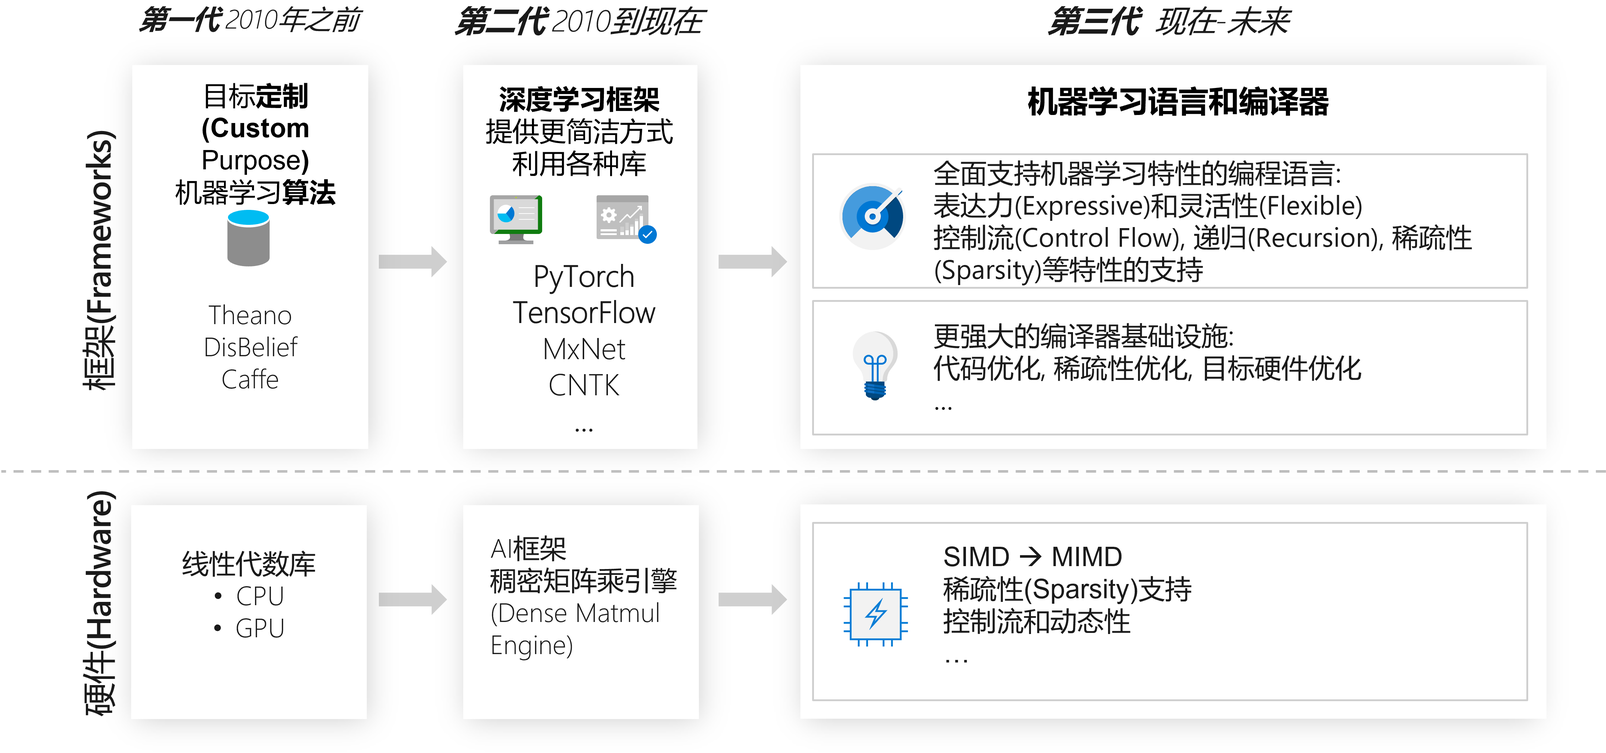
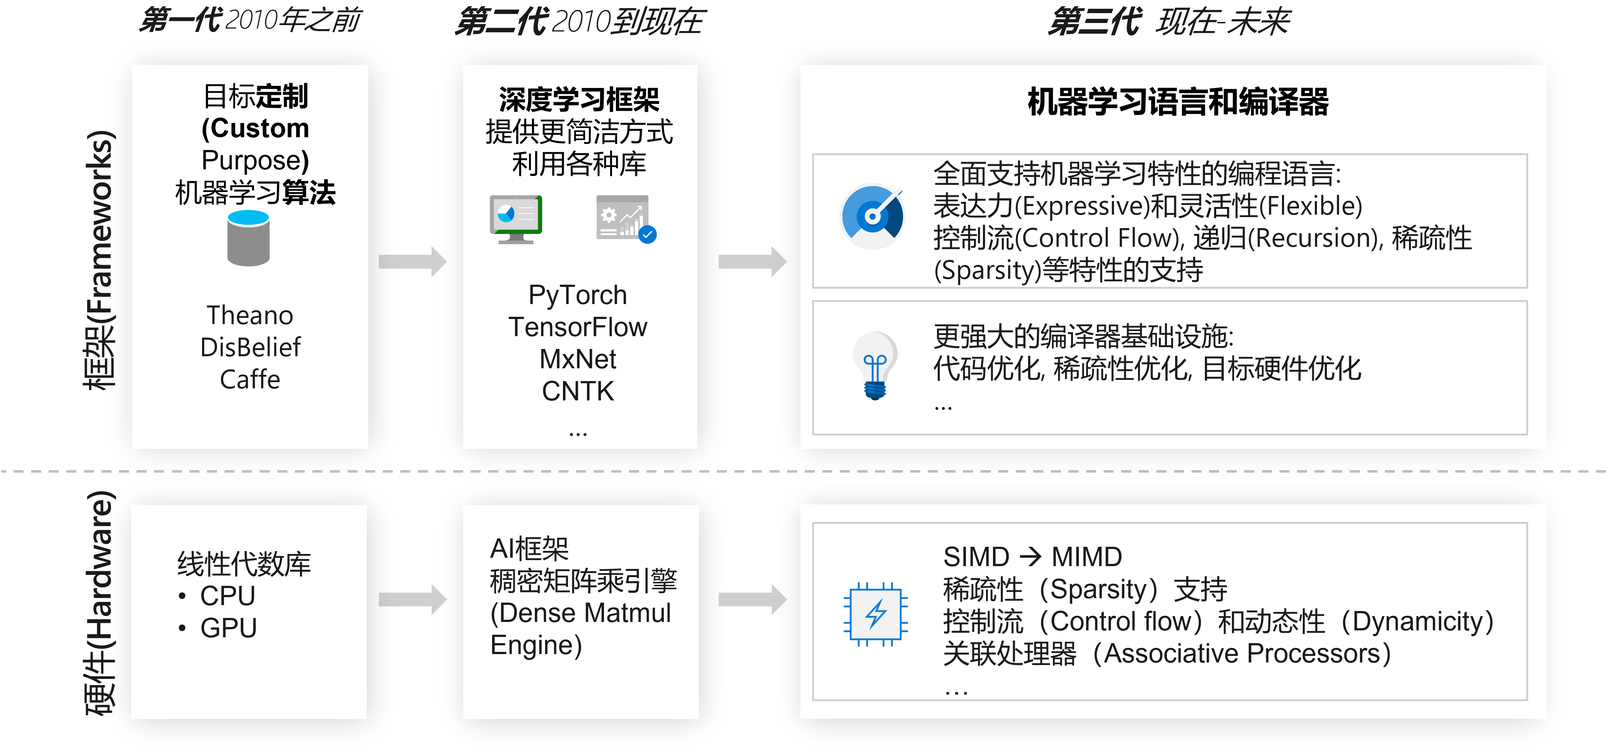
Update chapter 1, 7 and 8 (#110)
* add a bit for principle

* add more about compute translation

* add chip selection part

* refine a bit for figures

* refine a figure

* fix typo

* add abit

* add more compare

* refine a bit

* add more compare

* use more clear im2col figure

* add more for classic

* add a bit classic

* refine a bit

* refine a bit

* add more a bit cgroups

* refine a bit for fair share

* refine a bit

* update storage

* refine a bit

diff --git a/Textbook/第1章-人工智能系统概述/1.5-影响深度学习系统设计的理论，原则与假设.md b/Textbook/第1章-人工智能系统概述/1.5-影响深度学习系统设计的理论，原则与假设.md
@@ -147,7 +147,7 @@ ret; // 返回
         GPU Shutdown Temp                 : 95 C
         GPU Slowdown Temp                 : 92 C
   ```
-  在后面会看到越来越多的大模型采用分布式训练的方式打破单卡算力瓶颈，推理系统在移动端会被功耗所约束需要精简模型。
+  一般我们会看到软硬件通过以下方式应对挑战：（1）硬件层面：例如，NVIDIA不仅推出GPU，还推出[DGX系统](https://www.nvidia.com/en-us/data-center/dgx-systems/)和[DGX Pod](https://www.nvidia.com/en-us/data-center/dgx-pod/)，互联更多的GPU，打破单卡瓶颈。（2）软件层面：2.1 在后面会看到越来越多的大模型采用多卡或分布式训练的方式打破单卡算力瓶颈 2.2 推理系统在移动端会被功耗所约束需要通过压缩量化等手段精简模型。
 - 暗硅 (Dark Silicon)与异构硬件（Heterogeneous Hardware）的趋势：2010年，ARM 的 CTO Mike Muller 将在 EE Times 的Designing with ARM 虚拟会议上发表[暗硅警告（Warns of Dark Silicon）](https://www.eetimes.com/arm-cto-warns-of-dark-silicon/)主题演讲。根据 Mike 的说法，尽管工艺缩小到 11 nm，但固定的功率预算（Fixed Power Budgets ）可能很快就无法利用芯片（Chip）上的所有可用晶体管（Transistors）。如果没有新的创新，设计人员可能会发现自己处于“暗硅 (Dark Silicon)”时代，能够制造出他们无法负担得起的高密度设备。Olivier Temam在2010年ISCA中提到，[一种结果，向异构系统的可能演变：程序分解为“算法序列”，每个算法在任何给定时间映射到一个或几个加速器：晶体管的一小部分在任何给定时间使用（规避“暗硅”问题）](https://pages.saclay.inria.fr/olivier.temam/homepage/ISCA2010web.pdf)。 例如图1-5-1. 现在的深度学习程序虽然都是在一套Python脚本书写，但是当翻译到底层执行，具体的会拆分到异构设备进行指令执行，的数据加载与作业调度控制在CPU完成，模型训练在GPU完成，也有公司将推理未来部署于FPGA进行加速。异构计算的趋势会造成后面编译器章节对异构平台进行编译的需求，以及集群资源管理系统对异构硬件资源进行调度与资源分配的需求。
 当前异构计算的很多工作在数据中心异构和云化的趋势下常常会看到和下面主题相关的系统工作和设计思路：
   -  卸载（Offloading）：对不断增长的计算CPU越来越难以负担，卸载成为一种行之有效的方式。（1）一种思路是卸载控制平面或协议栈到硬件，减少CPU中断和开销（Overhead），和用户内核态数据拷贝，例如，DMA，[RDMA](https://conferences.sigcomm.org/sigcomm/2018/files/tp/sigcomm18-tp-06-rdma-and-hardware-support.pdf)，[GPUDirect Storage](https://developer.nvidia.com/blog/gpudirect-storage/)等设计思路。（2）另一种是借鉴[Exokernel](https://en.wikipedia.org/wiki/Exokernel)的思想，卸载内核态软件栈（例如，网络栈，[IO处理栈](http://www.cs.columbia.edu/~junfeng/papers/bpf-storage-hotos18.pdf)）逻辑到用户态，通过内核旁路（Kernel Bypassing）减少内核态与用户态切换与数据拷贝，例如，[Mellanox Messaging Accelerator (VMA) library](https://docs.nvidia.com/networking/display/VMAv883/Introduction+to+VMA)。（3）还有一种直接卸载密集计算：适合SIMD计算模型的负载（例如，深度学习模型的矩阵运算等）卸载到以SIMD为执行模型的GPU等加速器，适合[多指令流多数据流（Multiple Instruction Multiple Data）简称MIMD](https://en.wikipedia.org/wiki/Multiple_instruction,_multiple_data)（例如，字符串数据预处理等）负载卸载到[DPU](https://en.wikipedia.org/wiki/Data_processing_unit)等新兴加速器。除去负载的逻辑特点，如果用户的任务负载程序与指令稳定变化小（例如，一些特定场景的模型推理），也较为适合放入 FPGA 中硬件级定制加速器处理逻辑。
@@ -157,7 +157,7 @@ ret; // 返回
 <center>图1-5-2. 深度学习程序异构计算 (<a href="">图片引用</a>)</center>
 
 - [内存墙](https://en.wikipedia.org/wiki/Random-access_memory#Memory_wall)约束：
-  - [“内存墙”](https://en.wikipedia.org/wiki/Random-access_memory#Memory_wall)是芯片与芯片外的内存之间越来越大的速度差距。造成这种差距的一个重要原因是超出芯片边界的有限通信带宽，也称为带宽墙。例如，从 1986 年到 2000 年，CPU 速度以每年 55% 的速度提高，而内存速度仅提高了 10%。鉴于这些趋势，预计内存延迟将成为计算机性能的压倒性瓶颈。虽然增速比例不同，但是这种通常计算发展更快的现状其实我们在GPU的发展过程中也可以观察到，例如表1-5-1.所示，NVIDIA H100相比A100在FP32 Vector上是48TFLOPS相比19.5TFLOPS的近2.46倍提升，但是内存带宽只是2TB/s (PCIe版GPU)比1,935GB/s （PCIe版GPU）的1.06倍提升，访存落后于计算的提升速度。可以认为在人工智能领域内存墙这种情况还存在。同时我们在后面的编译优化等章节会看到很多策略是尽可能利用片上共享内存或者GPU显存，尽可能的减少数据搬运。
+  - [“内存墙”](https://en.wikipedia.org/wiki/Random-access_memory#Memory_wall)是芯片与芯片外的内存之间越来越大的速度差距。造成这种差距的一个重要原因是超出芯片边界的有限通信带宽，也称为带宽墙。例如，从 1986 年到 2000 年，CPU 速度以每年 55% 的速度提高，而内存速度仅提高了 10%。鉴于这些趋势，预计内存延迟将成为计算机性能的压倒性瓶颈。虽然增速比例不同，但是这种通常计算发展更快的现状其实我们在GPU的发展过程中也可以观察到，例如表1-5-1.所示，NVIDIA H100相比A100在FP32 Vector上是48TFLOPS相比19.5TFLOPS的近2.46倍提升，但是内存带宽只是2TB/s (PCIe版GPU)比1,935GB/s （PCIe版GPU）的1.06倍提升，访存落后于计算的提升速度。可以认为在人工智能领域内存墙这种情况还存在。一般应对内存墙有以下思路：（1）利用缓存减少数据访存搬运，同时我们在后面的编译优化等章节会看到很多策略是尽可能利用片上共享内存或者GPU显存，尽可能的减少数据搬运。（2）[关联处理（Associative Processing）的思想和关联处理器（Associative Processors）](https://ieeexplore.ieee.org/document/330035)，将计算直接卸载到数据侧，例如，[IMCA加速器设计](https://blogs.apache.org/hbase/entry/coprocessor_introduction)。除了硬件支持，软件层也可以借鉴其思想。在传统大数据系统中，Spark等尽可能搬运UDF，将计算放在数据块所在节点处理，减少搬运数据，以及Big Table和HBase的[协处理器（Coprocessor）](https://blogs.apache.org/hbase/entry/coprocessor_introduction)设计都是关联处理思想的延伸。（3）减少数据本身，例如，利用稀疏性，减少待计算需要传递的的数据量。（4）计算屏蔽数据搬运开销，例如，GPU通过更小开销的硬件线程切换设计，让需要访存的线程让出计算核，进而提升整体一批线程的计算吞吐，减少访问的开销。
 
 <style>table{margin: auto;}</style>
 |GPU 规格（Specification）|32位浮点运算量（FP32 FLOPS）|访存带宽（Memory Bandwidth）|内存尺寸（Memory Size）|最大热设计功率（Max Thermal Design Power）|发布年份|
@@ -184,8 +184,13 @@ ret; // 返回
 <center><img src="img/5/5-1-3-MemoryHierarchy.png" ch="500" /></center>
 <center>图1-5-3. 内存存储层级 (<a href="">图片引用</a>)</center>
 
-图1-5-1. 内存层次结构(Memory Hierarchy)[图片引用](https://diveintosystems.org/book/C11-MemHierarchy/mem_hierarchy.html)
+图1-5-3. 内存层次结构(Memory Hierarchy)[图片引用](https://diveintosystems.org/book/C11-MemHierarchy/mem_hierarchy.html)
 在图中我们看到传统的内存层次结构问题总结中没有覆盖GPU和AI加速器，我们可以通过PCIe总线将AI加速器与当前已有体系结构互联，让计算机利用AI加速器加速模型的训练与推理。
+
+<center><img src="img/5/5-1-13-storagevslogistics.png" ch="500" /></center>
+<center>图1-5-4. 内存存储层级 vs 物流仓储配送流程(<a href="https://www.zhitongcaijing.com/content/detail/433344.html">图片引用</a>)</center>
+
+如图1-5-4我们可以将存储和访存类别物流的仓库与配送，进而理解其中的设计与权衡。末端站点像缓存或寄存器，更小的空间，更高的租金成本，更快的送达速度。仓库就像磁盘或内存，更大的空间，更低的租金成本，更慢的送达速度。
 
 那么我们可以总结各个内存层次结构结构中的利用局部性的例子和机会：
 - GPU L1, L2缓存：
@@ -264,10 +269,15 @@ printf("%d \n", &C[m][n]);
 
 ## 1.5.4 深度学习负载的线性代数（Linear Algebra）计算与缺陷容忍（Defect Tolerance）特性
 
-**线性代数**：大部分的深度学习算子可以抽象为线性代数运算。其较少的控制流，并且大量的矩阵乘等计算让硬件可以通过单指令多数据流（SIMD）进行指令流水线精简设计，并将更多的片上资源用于计算，如图1-5-8所示。或者在更高的层次上通过多卡或分布式计算方式进行加速。这种特性的应用我们将在1.3.5中进行总结。同时我们也看到，由于矩阵计算早在几十年前在科学计算与高性能计算（HPC）领域有过大量的成熟研究，在深度学习系统领域也有很多工作会借鉴并优化传统科学计算与高性能计算领域的系统设计与开源组件。
+**线性代数**：大部分的深度学习算子可以抽象为线性代数运算，如通用矩阵乘（GEMM）。如图1-5-8所示，深度学习模型由很多的算子像积木一样组合而成，而每个算子又可以转换为对应的矩阵运算或非线性函数运算，而之后可以利用加速器（Accelerator）进行加速执行。例如，卷积可以通过im2col转换为通用矩阵乘。而矩阵乘在编译器中可以得到大量的优化，同时无论是GPU还是ASIC都可以为其设计专用加速器件。例如，NVIDIA GPU通过[单指令多线程（SIMT）](https://en.wikipedia.org/wiki/Single_instruction,_multiple_threads)进行矩阵运算加速，单指令多线程 (SIMT) 是一种用于并行计算的执行模型，其中单指令多数据 (SIMD) 与多线程相结合。Google TPU通过经典的[脉动阵列（Systolic Array）](https://en.wikipedia.org/wiki/Systolic_array)定制矩阵乘加速单元（Matrix Multiply Unit）。
+
+<center><img src="img/5/5-1-12-modeltomatrix.png" ch="500" width="1000" height="500"  /></center>
+<center>图1-5-8. 深度学习模型转换为底层矩阵运算，并在ASIC加速器为其定制的专用器件上进行加速 (<a href="">图片引用</a>)</center>
+
+由于矩阵运算含有较少的的控制流，且计算之间依赖少，适合并行计算。大量的矩阵乘等计算让硬件可以通过单指令多数据流（SIMD）进行指令流水线精简设计，并将更多的片上资源用于计算，如图1-5-9所示。或者在更高的层次上通过多卡或分布式计算方式进行加速。这种特性的应用我们将在1.3.5中进行总结。同时我们也看到，由于矩阵计算早在几十年前在科学计算与高性能计算（HPC）领域有过大量的成熟研究，在深度学习系统领域也有很多工作会借鉴并优化传统科学计算与高性能计算领域的系统设计与开源组件。
 
 <center><img src="img/5/5-1-4-sisd-simd.png" ch="500" width="600" height="300"  /></center>
-<center>图1-5-8. SISD对比SIMD (<a href="">图片引用</a>)</center>
+<center>图1-5-9. SISD对比SIMD (<a href="">图片引用</a>)</center>
 
 如下图所示，我们通过A,B进行通用矩阵乘计算产生矩阵C（通用矩阵乘常常用于全连接算子和卷积被im2col转化后的GEMM卷积算子中的运算）。但是我们观察到，下面都是标量的操作，如果每个线程都启动进行标量运算，会每个线程都有一个指令流和数据流。
 
@@ -366,10 +376,10 @@ else
 S_{latency}(s) = \frac{1}{(1-p) + \frac{p}{s}}
 $：其中$S_{latency}$是整个任务执行的理论加速；$s$是从改进的系统资源中受益的部分任务的加速；$p$是受益于改进资源的部分最初占用的执行时间的比例。我们可以看到并行加速受限于串行部分，之后的深度学习中，并行过程中的阶段与阶段间的同步点，聚合运算等都是需要一定串行并无法并行的部分。
 
-如图1-5-5.所示，根据阿姆达尔定律，作为执行程序的处理器数量的函数（也可以推广到分布式或者多设备场景进行理论分析），程序执行延迟的理论加速（y轴）。程序的加速受到程序的串行部分的限制。例如，如果 95% 的程序可以并行化（Parallel Portion = 95%），那么理论上使用并行计算的最大加速将是 20 倍（图中绿色曲线所示）。
+如图1-5-12.所示，根据阿姆达尔定律，作为执行程序的处理器数量的函数（也可以推广到分布式或者多设备场景进行理论分析），程序执行延迟的理论加速（y轴）。程序的加速受到程序的串行部分的限制。例如，如果 95% 的程序可以并行化（Parallel Portion = 95%），那么理论上使用并行计算的最大加速将是 20 倍（图中绿色曲线所示）。
 
 <center><img src="img/5/5-1-6-AmdahlsLaw.png" ch="500" width="600" height="400"  /></center>
-<center>图1-5-11. 阿姆达尔定律 (<a href="https://en.wikipedia.org/wiki/Amdahl%27s_law">图片引用</a>)</center>
+<center>图1-5-12. 阿姆达尔定律 (<a href="https://en.wikipedia.org/wiki/Amdahl%27s_law">图片引用</a>)</center>
 
 通过以上我们可以看到在深度学习系统中，经典的优化方法和理论依然适用。
 
@@ -384,7 +394,7 @@ $：其中$S_{latency}$是整个任务执行的理论加速；$s$是从改进的
   - 存储：分布式文件系统（例如，[HDFS](https://hadoop.apache.org/docs/r1.2.1/hdfs_design.html)，[Alluxio](https://www.alluxio.io/)，[Azure Blob](https://azure.microsoft.com/en-us/services/storage/blobs/)等）副本机制。
 
 <center><img src="img/5/5-1-5-duplication.png" ch="500" width="600" height="200"  /></center>
-<center>图1-5-12. 副本机制 (<a href="">图片引用</a>)</center>
+<center>图1-5-13. 副本机制 (<a href="">图片引用</a>)</center>
 
 由于冗余（Redundancy）副本会产生一致性（Consistency）的问题，工程师可以参考经典的分布式系统保持副本一致性的共识（Consensus）协议（例如，[Paxos](https://en.wikipedia.org/wiki/Paxos_(computer_science))，[Raft](https://en.wikipedia.org/wiki/Raft_(algorithm))等）保证新设计的副本系统数据一致。
 

diff --git a/Textbook/第7章-异构计算集群调度与资源管理系统/7.5-存储.md b/Textbook/第7章-异构计算集群调度与资源管理系统/7.5-存储.md
@@ -28,8 +28,7 @@
 <center> <img src="./img/5/7-5-5-fuse.png" ch="500" width="500" height="500" /></center>
 <center>图7-5-2. 用户空间文件系统（Filesystem in Userspace）访问云端存储（例如，Azure Blob）(<a href="https://en.wikipedia.org/wiki/Filesystem_in_Userspace">图片来源</a>)</center>
 
-上图显示FUSE工作原理的流程图：来自用户空间的列出文件的请求 (ls -l /tmp/fuse) 被内核通过虚拟文件系统([Virtual File System](https://en.wikipedia.org/wiki/Virtual_file_system)
-)简称VFS重定向到FUSE。FUSE 然后执行注册的处理程序（./hello）并将请求传递给它（ls -l /tmp/fuse）。通过REST API或其他接口调用读写云端存储(例如Blob Fuse)。处理程序将响应返回给 FUSE，然后将其重定向到最初发出请求的用户空间程序。例如，很多分布式文件系统都提供了FUSE功能方便用户使用，我们以Azure提供的[BlobFuse](https://github.com/Azure/azure-storage-fuse)为例：
+上图显示FUSE工作原理的流程图：来自用户空间的列出文件的请求 (ls -l /tmp/fuse) 被内核通过虚拟文件系统([Virtual File System](https://en.wikipedia.org/wiki/Virtual_file_system))简称VFS重定向到FUSE。FUSE 然后执行注册的处理程序（./hello）并将请求传递给它（ls -l /tmp/fuse）。通过REST API或其他接口调用读写云端存储(例如Blob Fuse)。处理程序将响应返回给 FUSE，然后将其重定向到最初发出请求的用户空间程序。例如，很多分布式文件系统都提供了FUSE功能方便用户使用，我们以Azure提供的[BlobFuse](https://github.com/Azure/azure-storage-fuse)为例：
 
 用户或平台系统只需要挂载文件系统即可。例如，参考官方实例的步骤: 
 
@@ -156,13 +155,38 @@ P * (1 (seek) * seconds_per_seek + (1024 / 32) * per_sample_size / pcie_bandwidt
 ```
 以上的特点造成看似对存储优化机会不像传统的数据库或者大数据系统机会多，但是如果不设计好面向深度学习的存储，也会造成和产生系统瓶颈。
 
-所以我们可以朝着以下几个方向，并利用已有成熟的文件系统进行设计。
+所以可以朝着以下几个方向，并利用已有成熟的文件系统设计思想，与数据加载器（Data Loader）和底层硬件协同设计（Co-design）出面向深度学习的高效率块存储I/O技术栈，一站式加速深度学习作业的数据加载：
 
-- 局部性：已知访问顺序的情况下的预取(Prefetch)策略的支持。
-- 流水线：和计算形成流水线协同配合，减少I/O成为瓶颈的几率。框架原生支持跨多种数据源并能异步与并行数据加载的高性能数据加载器模块。
-- 缓存：利用数据中心主存不断增长的趋势，在主存做好数据缓存和备份，例如，业界有公司利用Alluxio提供缓存功能。
-- 文件格式的设计：减少小文件读写与序列化开销，例如，[TFRecord](https://www.tensorflow.org/tutorials/load_data/tfrecord)等针对深度学习负载设计的文件格式。
+<center> <img src="./img/5/7-5-7-overviewofio.png" ch="500" width="1300" height="500" /></center>
+<center>图7-5-5. 深度学习I/O时序图与优化策略总览(<a href="">图片来源</a>)</center>
 
+- 高效文件格式（Layout）的设计：一般文件格式有几点设计思路（1）合并为大文件，减少文件数量，减少文件打开开销。（2）减少随机读写转为顺序读写。（3）高效的格式和序列化库，降低序列化与反序列化开销。例如，[TFRecord](https://www.tensorflow.org/tutorials/load_data/tfrecord)等针对深度学习负载设计的文件格式，将原来多张图片（每个都是一个文件），序列化为一个二进制文件。
+- 并发执行（Concurrent Computing）和并行（Parallel）加载：和计算形成流水线协同配合，减少I/O成为瓶颈的几率，同时利用多核进行并行加载。如图所示，未经优化的数据加载流程，一个训练epoch含有三个阶段：文件打开（Open），迭代每个批次读取（Read）数据和训练（Train）。框架原生支持跨多种数据源并能异步与并行数据加载的高性能数据加载器模块，例如，并发执行的[TensorFlow Data API](https://www.tensorflow.org/guide/data_performance)。并行执行的PyTorch Dataloader。
+
+<center> <img src="./img/5/7-5-8-prefetched.png" ch="500" width="1300" height="600" /></center>
+<center>图7-5-5. 预取优化的数据读取时序图(<a href="https://www.tensorflow.org/guide/data_performance">图片来源</a>)</center>
+
+- 统一文件系统接口（Unified File System API）：对用户透明，统一管理多级，多数据源异构存储。
+  - [NVIDIA AIStore](https://github.com/NVIDIA/aistore)：AIStore（简称AIS）是一个为人工智能负载设计的轻量级存储堆栈。 
+减少内核态切换与CPU中断，减少内核与用户态内存拷贝。可以部署为远程存储的基于 LRU 的快速缓存； 可以按需填充和/或通过预取和下载 API，适用于集群内大量用户可能会重复使用数据集。自动重新平衡集群（通过类Map Reduce扩展），在集群成员、驱动器故障和附件、存储桶重命名发生任何变化时自动触发，因为用户不断产生新数据与模型，删除旧模型，造成文件系统容易变得不平衡。支持关联处理（Associative Processing），用户的ETL可以就近数据处理，数据中心流行计算存储分离，ETL通过关联处理可以减少I/O数据搬运。工程上，兼容支持按需挂载多种云存储，K8s部署，数据保护，纠删码，高可用等分布式文件系统功能。
+  
+<center> <img src="./img/5/7-5-6-aistore.png" ch="500" width="600" height="300" /></center>
+<center>图7-5-5. AIStore支持挂载多种存储，统一管理(<a href="https://github.com/NVIDIA/aistore">图片来源</a>)</center>
+
+- 局部性（Locality）：（1）已知访问顺序（时间局部性）的情况下的预取(Prefetch)策略的支持。例如，虽然深度学习数据读取为随机读取样本，但是一定程度上如果随机数生成如果不依赖当前Epoch，可以考虑提前生成随机序列并由守护线程进行数据提前加载与准备。（2）利用数据中心主存不断增长的趋势，在主存或挂载高速二级存储（NVM等）做好数据缓存和备份，并由分布式缓存文件系统纳入统一管理。例如，业界有公司利用Alluxio提供缓存功能。
+- 内核旁路（Kernel Bypassing）：
+  - [GPUDirect存储器](https://developer.nvidia.com/zh-cn/blog/gpudirect-storage/)：底层利用RMDA直接访问，RDMA支持零拷贝，内核旁路（用户态I/O），CPU旁路大幅提高I/O效率，直接访问远端高速存储（例如，NVMe），在网络和块存储I/O上协同优化。其避免了通过主存中的缓冲区的额外拷贝，并使 NIC 或存储器附近的直接内存访问（DMA）引擎能够在直接路径上将数据移入或移出 GPU 内存所有这些都不会给 CPU（不干扰DMA）或 GPU （不干扰GPU DMA）带来负担。
+  
+<center> <img src="./img/5/7-5-9-gpudirect.png" width="1000" height="600" /></center>
+<center>图7-5-5. GPUDirect 存储器(<a href="https://developer.nvidia.com/zh-cn/blog/gpudirect-storage/">图片来源</a>)</center>
+
+- 卸载（Offloading）：可以将一定的数据压缩解压缩，反序列化，甚至一定的数据预处理等计算卸载到协处理器。
+  - ETL卸载到 GPU:（[DALI](https://docs.nvidia.com/deeplearning/dali/user-guide/docs/)） 提供了一组高度优化的构建块，用于加载和处理图像、视频和音频数据。DALI 通过将数据预处理卸载到 GPU 来解决 CPU 瓶颈问题。此外，DALI 利用预取、并行执行和批处理等功能为用户透明地加速处理数据。NVDIA还通过[NVTabular加速推荐引擎ETL](https://resources.nvidia.com/en-us-merlin/accelerating-recsys-etl-blog?lx=97GH0Q)。
+  - DMA卸载：例如，GPUDirect卸载DMA复制引擎到NIC或NVMe内的DMA处理，减轻CPU，GPU DMA负担。
+- 数据与模型隐私保护：本章暂不介绍数据和模型的隐私保护，读者可以参考第13章。
+
+其他例如权限管理等和传统文件系统区别不太，读者可以参考传统文件系统设计进行借鉴。
+  
 ## 小结与讨论
 
 本章我们主要介绍异构计算集群管理系统的中的存储，计算，存储和网络是基础架构中的核心，我们在深度学习系统中往往开始关注计算较多，但随着时间的推移会意识到存储的重要性和新的问题。

diff --git a/Textbook/第8章-深度学习推理系统/8.2-模型推理的离线优化.md b/Textbook/第8章-深度学习推理系统/8.2-模型推理的离线优化.md
@@ -15,7 +15,12 @@
   - [小结与讨论](#小结与讨论)
   - [参考文献](#参考文献)
 
-推理系统类似传统的Web服务，需要响应用户请求，并保证一定的服务等级协议(例如，响应时间低于100ms)，进而需要通过一定的策略和优化，保持一定的低延迟(Low Latency)，本小节将围绕部署过程中涉及到的延迟问题和相应的优化进行展开。
+推理系统类似传统的Web服务，需要响应用户请求，并保证一定的服务等级协议(例如，响应时间低于100ms)，进而需要通过一定的策略和优化，保持一定的低延迟(Low Latency)，本小节将围绕部署过程中涉及到的延迟问题和相应的优化进行展开。 
+总体来说，本章节的优化都在朝着下面的思路设计：
+（1）更小的模型：更小的模型意味着更少的浮点运算量和访存开销。例如，低精度推理，模型压缩等。
+（2）更小的访存开销：层间与张量融合，目标后端自动调优等。
+（3）更大的并行度：目标后端自动调优等。
+同时本章的优化属于 ***离线优化*** ，也就是属于部署推理模型之前做的优化，对这段优化处理本身的开销没有严格约束。
 
 ## 8.2.1 通过程序理解推理优化动机
 
@@ -157,6 +162,14 @@ for j in range(len(B[0])):
 
 代表性的开源内核融合系统还有很多，例如，微软开源的[NNFusion](https://github.com/microsoft/nnfusion)。
 
+***经典回顾***
+
+- [内联函数（Inline Function）](https://en.wikipedia.org/wiki/Inline_functiong)：C/C++编程语言中，内联函数用作编译器指令，建议（但不要求）编译器通过执行内联扩展来替换内联函数的主体，即通过在每个函数调用的地址处插入函数代码，从而节省函数的调用开销。 
+
+- [循环融合（Loop Fusion）](https://en.wikipedia.org/wiki/Loop_fission_and_fusion)：循环融合是一种编译器优化和循环转换，它用一个循环替换多个循环。循环融合并不总能提高运行速度。在某些架构上，两个循环实际上可能比一个循环执行得更好，例如，因为每个循环内的数据局部性增加。 循环融合的主要好处之一是它可以避免临时内存分配。
+
+- 大数据系统中：Spark中将两个洗牌（Shuffle）阶段之间的用户自定义函数（UDF）自动融合（Fusion）为一个[阶段（Stage）](https://data-flair.training/blogs/spark-stage/)，并根据数据分区（Partition）转换为具体任务（Task）执行，减少UDF之间的数据访存开销。
+
 ## 8.2.4 目标后端自动调优
 
 由于深度学习模型中的层的计算逻辑可以转为矩阵运算，而矩阵计算又可以通过循环进行实现。对于循环的实现，由于在不同的推理CPU和硬件设备中，有不同的缓存和内存大小以及访存带宽，进而如何针对不同的设备进行循环的并行化和考虑数据的局部性降低访存开销，可以抽象为一个搜索空间巨大的优化问题。目前有很多代表性的工作在围绕这个问题展开，通过基于专家经验的规则，构建代价模型，抽象为优化问题或者通过机器学习自动化学习和预测是常用的方式。由于在编译优化章节对此有较为详细的介绍，本章不再展开相应的内容，读者可以参考编译优化章节内容理解。
@@ -172,6 +185,10 @@ for j in range(len(B[0])):
 2. 基于顺序构建的搜索（Sequential Construction Based Search）：如图b所示，这种方法通过分解程序结构来细化搜索空间转化为固定的决策序列。 然后编译器
 使用诸如束搜索（Beam Search）之类的算法来搜索好的决策（例如，[Halide](https://dl.acm.org/doi/10.1145/3150211) 自动调度器采用这种方式）。 在这种方法中，编译器通过逐步展开计算图中的所有节点顺序构造一个张量程序（Tensor Program）。
 3. 分层方法（Hierarchical Approach）：如图c所示，[Ansor](https://arxiv.org/pdf/2006.06762.pdf)由一个分层的搜索空间支持，该空间解耦高级结构和低级细节。 Ansor构造自动搜索计算图的空间，无需手动开发模板。 然后从空间中采样完整的程序并执行对完整程序进行微调，避免不准确的预估不完整程序。
+
+***经典回顾***
+
+程序分析（Program Analysis）与编译器（Compiler）领域在过去的几十年中，对循环做了大量的研究与优化，读者可以参考[循环优化（Loop Optimization）](https://en.wikipedia.org/wiki/Loop_optimization)了解。例如：循环分块（Tiling），循环展开（Unrolling），循环交换(Interchange)，循环分解（Fission），循环融合（Fusion）等。而面对如此大的优化空间，当前的工作更多的入手点是从如何通过更高效算法搜索出近似或超过专家手工优化的效果，以及通过编译器工程上适配更多的设备。
 
 ## 8.2.5 低精度推理与精度校准
 

diff --git a/Textbook/第7章-异构计算集群调度与资源管理系统/7.3-调度.md b/Textbook/第7章-异构计算集群调度与资源管理系统/7.3-调度.md
@@ -154,6 +154,10 @@ $$
 <center> <img src="./img/3/7-3-5-capascheduling.png" ch="500" width="400" height="300" /></center>
 <center>图7-3-5. 容量调度</center>
 
+***经典回顾***
+
+操作系统[公平共享调度（Fair-share scheduling）](https://en.wikipedia.org/wiki/Fair-share_scheduling)是一种用于计算机操作系统的调度算法，其中 CPU 使用率在系统用户或组之间平均分配（或演变为类似容量调度，组之间按比例分配配额），而不是在进程之间平均分配资源。在逻辑上实现公平共享调度策略的一种常见方法是在每个抽象级别（进程、用户、组等）递归应用轮询调度（Round- Robin）策略，例如，两个公平分配的组，组内用户再根据轮训或其他调度算法进行调度。所以我们看到有的时候调度算法具有一定的正交性，可以嵌套使用，关键是在不同抽象级别上应用不同的策略。
+
 ## 7.3.5 虚拟集群(Virtual Cluster)机制
 
 在这些集群内，一般组和用户所看到的的资源并没有绑定到具体的物理机器，而是在调度后决定作业启动的物理机器。这背后是通过虚拟集群 (Virtual Cluster) 映射所实现的。而虚拟集群和我们之前介绍的cgroups的目的和设计较为类似。我们会看到很多集群产生的问题，在传统的操作系统中都能找到类似的设计问题与原则。
@@ -171,6 +175,11 @@ $$
 
 <center> <img src="./img/3/7-3-7-vc-define.png" ch="600" width="700" height="600" /></center>
 <center>图7-3-6. 虚拟集群资源分配</center>
+
+***经典回顾***
+
+虚拟集群的设计思想类似传统操作系统中的控制组的思路，约束资源但是解耦和物理资源的绑定。
+操作系统[控制组（Cgroups）](https://man7.org/linux/man-pages/man7/cgroups.7.html)是Linux内核的一个功能，用来限制、控制与分离一个行程群组的资源（如CPU、内存、磁盘输入输出等），让不同组织，用户的不同进程在操作系统中有相应的资源约束，但是不于具体硬件资源绑定，而是由运行时调度分配。
 
 ## 7.3.6 抢占式调度(Preemptive Scheduling)
 
@@ -191,6 +200,10 @@ $$
 
 抢占式调度对深度学习作业的挑战：在深度学习作业下，被抢占的作业当前只能失败，无法像传统操作系统进行上下文切换。未来可以设计更好的深度学习检查点和恢复技术进行减少抢占后作业失效造成之前作业的训练资源无效使用的问题。
 
+***经典回顾***
+
+- [操作系统强占调度](https://en.wikipedia.org/wiki/Preemption_(computing))：在计算中，抢占（Preemption）是暂时中断正在执行的任务的行为，目的是在以后恢复它。这个中断（Interrupt）是由外部调度器完成的，没有任务的参与。这种抢占式调度器通常运行在最高特权的保护环中。处理器当前执行任务的这种变化称为上下文切换（Context Switching），读者思考深度学习作业强占是否能支持上下文切换？如今，几乎所有操作系统都支持[抢占式多任务处理](Preemptive Multitasking)，例如Windows、macOS、Linux等。最初开发多任务处理技术是为了允许多个用户共享一台机器，也就是我们说的多租，但很快就发现，无论用户数量如何，多任务处理都非常有用。多任务处理使单个用户可以同时运行多个应用程序，或者在保留对计算机的控制权的同时运行"后台"进程。
+  
 ## 7.3.7 深度学习调度算法实验与模拟研究
 
 此开源数据集[philly-traces](https://github.com/msr-fiddle/philly-traces) 包含 Microsoft 内部 Philly集群上第一方 (First-Party) DNN 训练工作负载的代表性子集。 数据是 ATC’19 中“Analysis of large-scale multi-tenant GPU clusters for DNN training workloads”中描述的工作负载的一个脱敏数据子集。 这项工作是作为 Microsoft Research 的 Project Fiddle 的一部分完成的。

diff --git a/Textbook/第1章-人工智能系统概述/1.4-深度学习样例背后的系统问题.md b/Textbook/第1章-人工智能系统概述/1.4-深度学习样例背后的系统问题.md
@@ -160,10 +160,10 @@ for n in range(batch_size):
 在这其中有很多有趣的问题问题读者可以思考与预估：
 - 从算法来说，当前7层循环是否能转换为更加简单的矩阵计算(例如，[cuDNN](https://docs.nvidia.com/deeplearning/cudnn/)库中的卷积就提供了[多种实现算法](https://docs.nvidia.com/deeplearning/cudnn/api/index.html#cudnnConvolutionForward))。这些算法被封装在库中，有些框架会在运行时动态调优选择不同算法策略，读者可以参考第3章进行更多的了解。
 
-为了利用张量核心的矩阵乘法算子，先进的深度学习加速库，例如cuDNN，通常通过应用[im2col](https://hal.inria.fr/inria-00112631/document)函数将卷积转换为通用矩阵乘法（General Matrix Multiplication）缩写[GEMM](https://en.wikipedia.org/wiki/GEMM)。cuDNN也支持利用其他算法实现卷积，例如,FFT, WINOGRAD等。通用矩阵乘是自然语言处理中的主要的计算原语，同时卷积也可以转换为通用矩阵乘，同时底层GPU和其他专有人工智能芯片也针对矩阵乘作为底层支持（例如张量核（[Tensor Core](https://www.nvidia.com/en-us/data-center/tensor-cores/)）），这样的转换就可以让算子利用底层硬件和软件的优化。
+为了利用张量核心的矩阵乘法算子，先进的深度学习加速库，例如cuDNN，通常通过应用[im2col](https://hal.inria.fr/inria-00112631/document)函数将卷积转换为通用矩阵乘法（General Matrix Multiplication）缩写[GEMM](https://en.wikipedia.org/wiki/GEMM)，如图1-4-4.所示。cuDNN也支持利用其他算法实现卷积，例如,FFT, WINOGRAD等。通用矩阵乘是计算机视觉和自然语言处理模型中的主要的计算原语（例如，卷积，全连接，平均池化，注意力等算子均可以转换为GEMM），同时底层GPU和其他专有人工智能芯片也针对矩阵乘作为底层支持（例如张量核（[Tensor Core](https://www.nvidia.com/en-us/data-center/tensor-cores/)），脉动阵列等），这样的转换就可以让算子利用底层硬件和软件的优化。
 
-<center> <img src="./img/4/1-4-4-imtocol.png" ch="500" width="500" height="160" /></center>
-<center>图1-4-4. 卷积通im2col转换为通用矩阵乘(<a href="https://arxiv.org/pdf/2105.09564.pdf">图片引用</a>)</center>
+<center> <img src="./img/4/1-4-4-imtocol.png" ch="500" width="700" height="400" /></center>
+<center>图1-4-4. 卷积通im2col转换为通用矩阵乘（图中我们使用一个卷积核和一个输入图片通道为例简要说明）(<a href="https://arxiv.org/pdf/2005.13076.pdf">图片引用</a>)</center>
 
 - 其中参与计算的输入，权重和输出张量能否完全放入GPU缓存(L1，L2)？如果不能放入则需要通过块(Tile)优化进行切片，这些内容将在第5章着重介绍。
 - 循环执行的主要计算语句是否有局部性可以利用？空间局部性（缓存线内相邻的空间是否会被连续访问）以及时间局部性（同一块内存多久后还会被继续访问），这样我们可以通过预估后，尽可能的通过编译调度循环执行，这些内容将在第5章着重介绍。
